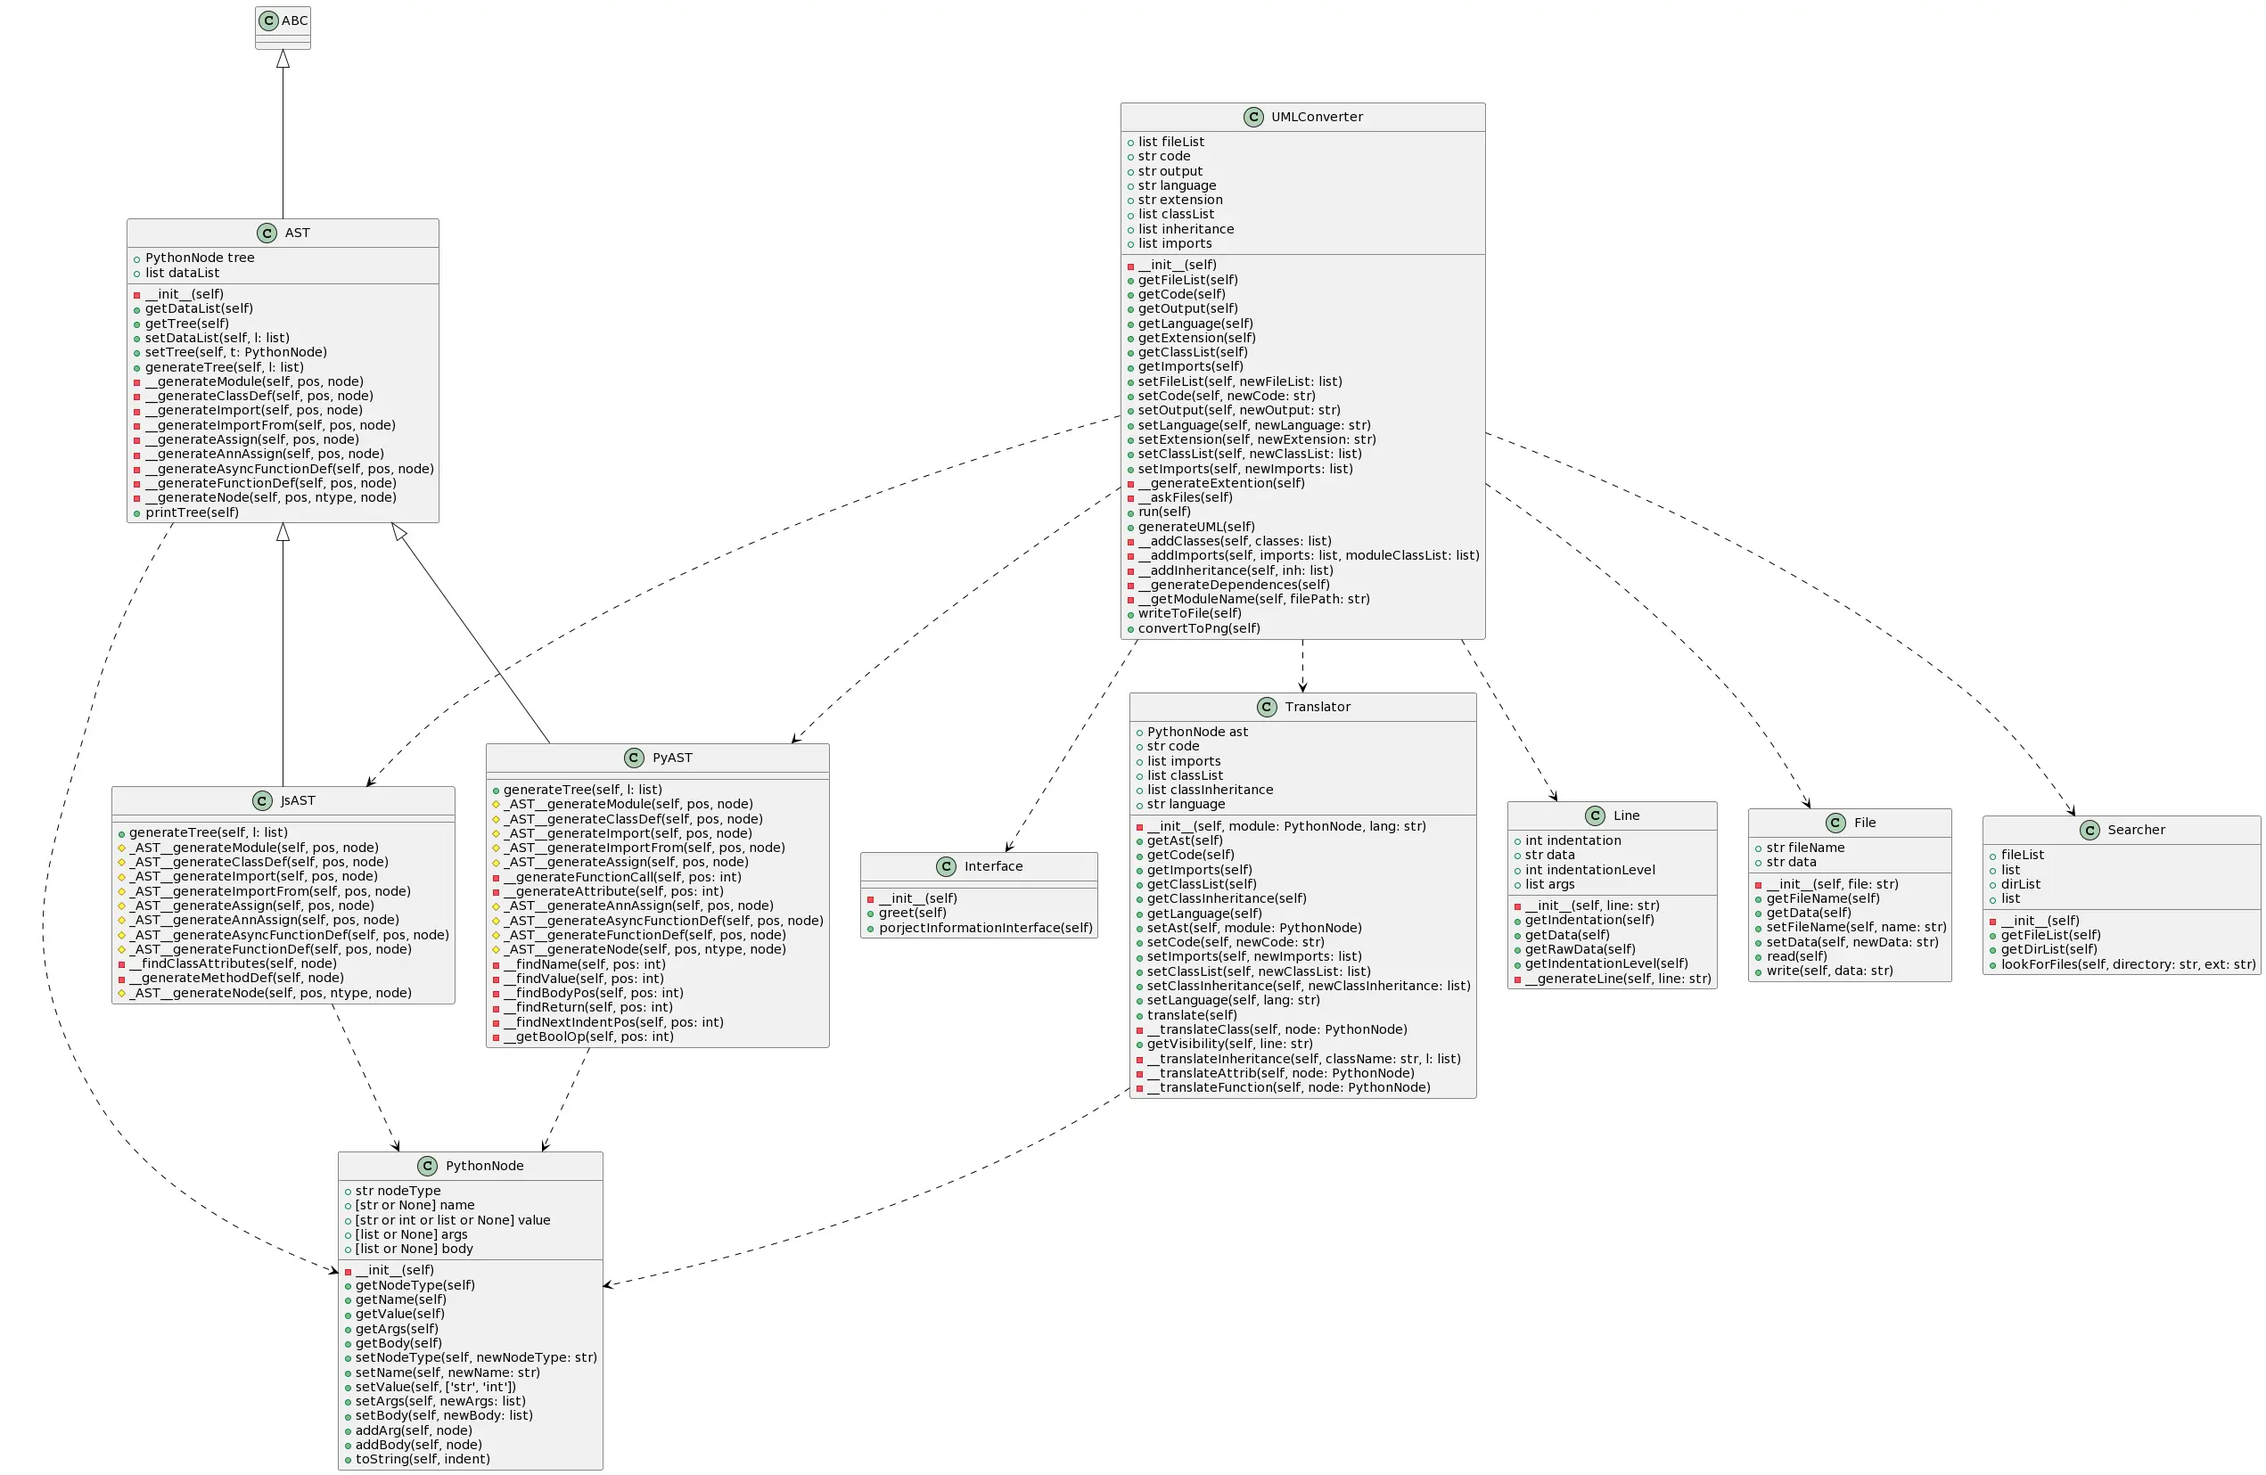
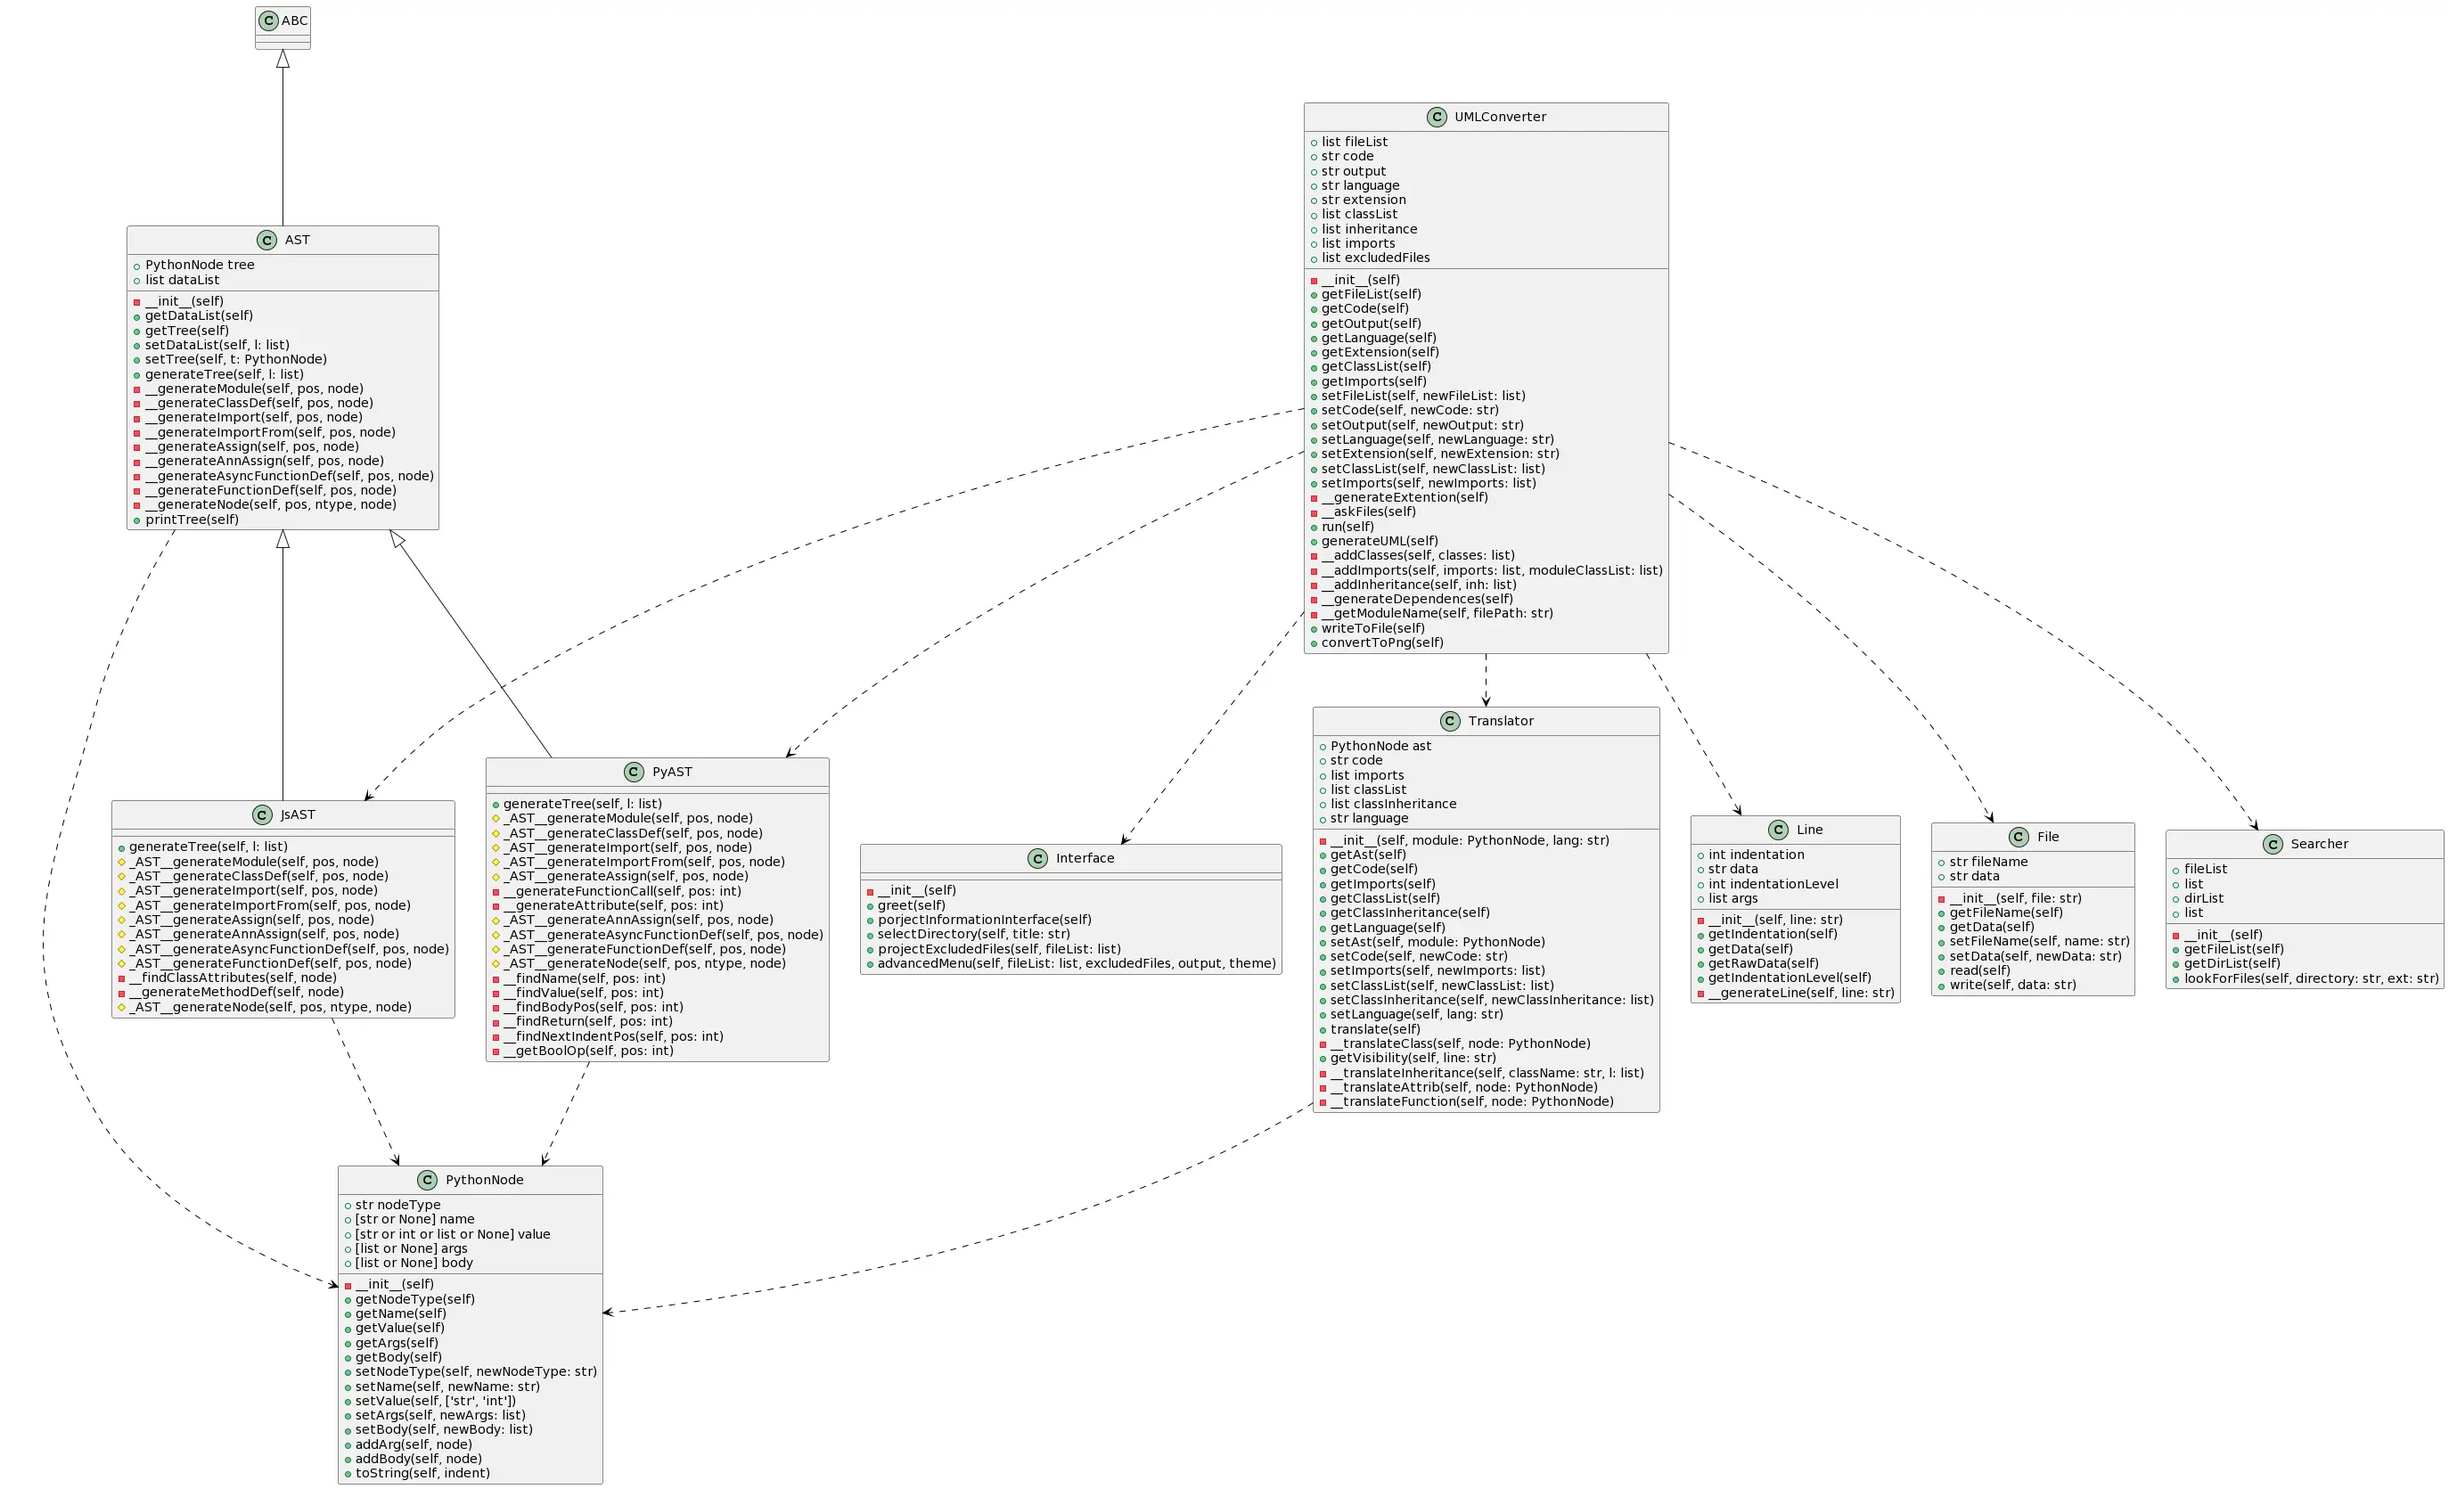
Allow user to select the file/files which won't appear in the diagram

diff --git a/app/modules/interface_module/interface.py b/app/modules/interface_module/interface.py
@@ -7,7 +7,7 @@
 #   @Email:              adrianepi@gmail.com
 #   @GitHub:             https://github.com/AdrianEpi
 #   @Last Modified by:   Adrian Epifanio
-#   @Last Modified time: 2023-01-19 12:03:16
+#   @Last Modified time: 2023-01-26 12:12:47
 #   @Description:        ...
 
 from app.modules.uml_module.translator import LANGUAGES
@@ -50,13 +50,54 @@ class Interface:
 			sys.exit(0)
 
 		easygui.msgbox("\n\n\tYou chose: " + str(language) + "\n\n\tSelect project folder", title)
-		path = easygui.diropenbox("Select project folder")	
-		if path == None:
-			sys.exit(0)
+		path = self.selectDirectory("Select project folder")	
+		
 
 		easygui.msgbox("\n\n\tYou chose: " + str(path) + "\n\n\tSelect directory to save the output", title)
-		output = easygui.diropenbox("Select output folder")	
-		if output == None:
+		output = self.selectDirectory("Select output folder")
+
+
+		result = {
+			"Language": language,
+			"ProjectPath": path,
+			"OutputPath": output
+		}
+		return result
+
+	def selectDirectory(self, title: str) -> str:
+		path = easygui.diropenbox(title)
+		if path == None:
 			sys.exit(0)
-			
-		return [language, path, output]
+		return path
+
+	def projectExcludedFiles(self, fileList: list) -> list:
+		excluded = easygui.multchoicebox("Select files which you want to exclude in class diagram", "Exclude files", fileList)
+		return excluded
+
+
+	def advancedMenu(self, fileList: list, excludedFiles = [], output = "", theme = "") -> dict:
+		#image = "path"
+		msg = "Do you want to finish config and start building?"
+		choices = ["Build", "Exclude Files", "Choose Theme", "Exit"]
+		#reply = buttonbox(msg, image=image, choices=choices)
+		reply = easygui.buttonbox(msg, choices=choices)
+
+		if reply == "Build":
+			result = {
+				"OutputPath": output,
+				"ExcludedFiles": excludedFiles,
+				"Theme": theme
+			}
+			return result
+
+		elif reply == "Exclude Files":
+			excludedFiles = self.projectExcludedFiles(fileList)
+
+		elif reply == "Theme":
+			pass
+
+		elif reply == "Exit":
+			sys.exit(0)
+		
+		return self.advancedMenu(fileList = fileList, excludedFiles = excludedFiles, output = output, theme = theme)
+	

diff --git a/app/modules/uml_module/UMLConverter.py b/app/modules/uml_module/UMLConverter.py
@@ -7,7 +7,7 @@
 #   @Email:              adrianepi@gmail.com
 #   @GitHub:             https://github.com/AdrianEpi
 #   @Last Modified by:   Adrian Epifanio
-#   @Last Modified time: 2023-01-26 10:57:50
+#   @Last Modified time: 2023-01-26 12:12:51
 #   @Description:        ...
 
 from app.modules.uml_module.translator import Translator, LANGUAGES
@@ -40,6 +40,7 @@ class UMLConverter:
 	classList: list
 	inheritance: list
 	imports: list
+	excludedFiles: list
 
 	def __init__(self):
 		"""
@@ -53,7 +54,7 @@ class UMLConverter:
 		self.classList = []
 		self.inheritance = []
 		self.imports = []
-
+		self.excludedFiles = []
 
 	def getFileList(self) -> list:
 		"""
@@ -223,16 +224,20 @@ class UMLConverter:
 		"""
 		gui = Interface()
 		result = gui.porjectInformationInterface() # [language, projectPath, outputPath]
-		self.language = result[0]
+		self.language = result["Language"]
 		self.__generateExtention()
-		self.output = result[2]
+		self.output = result["OutputPath"]
 		searcher = Searcher()
-		self.fileList = searcher.lookForFiles(result[1], self.extension)
+		self.fileList = searcher.lookForFiles(result["ProjectPath"], self.extension)
 		if ((sys.platform == "win32") or (sys.platform == "cygwin")): # Windows
 			self.output += "\\"
 		else:	# Linux or MacOS
 			self.output += "/"
 		self.output += "projectUML.txt"
+
+		result = gui.advancedMenu(self.fileList)
+		self.excludedFiles = result["ExcludedFiles"]
+		#gui.projectExcludedFiles(self.fileList)
 
 
 	def run(self):
@@ -251,6 +256,8 @@ class UMLConverter:
 		"""
 		self.code = ""
 		for i in self.fileList:
+			if i in self.excludedFiles:
+				continue
 			f = File(i)
 			f.read()
 			#print("TRYING FILE " + f.getFileName())

diff --git a/app/modules/ast_module/pyAST.py b/app/modules/ast_module/pyAST.py
@@ -7,7 +7,7 @@
 #   @Email:              adrianepi@gmail.com
 #   @GitHub:             https://github.com/AdrianEpi
 #   @Last Modified by:   Adrian Epifanio
-#   @Last Modified time: 2023-01-24 10:28:32
+#   @Last Modified time: 2023-01-26 11:48:06
 #   @Description:        This file describes a python ast class
 
 from app.modules.ast_module.pythonNode import PythonNode
@@ -289,6 +289,10 @@ class PyAST(AST):
 			if ("value=BinOp(" in data):
 				for j in assigns:
 					j.setValue("BinaryOperation")
+				break
+			if ("value=Dict(" in data):
+				for j in assigns:
+					j.setValue("Dict")
 				break
 			i += 1
 		return assigns
